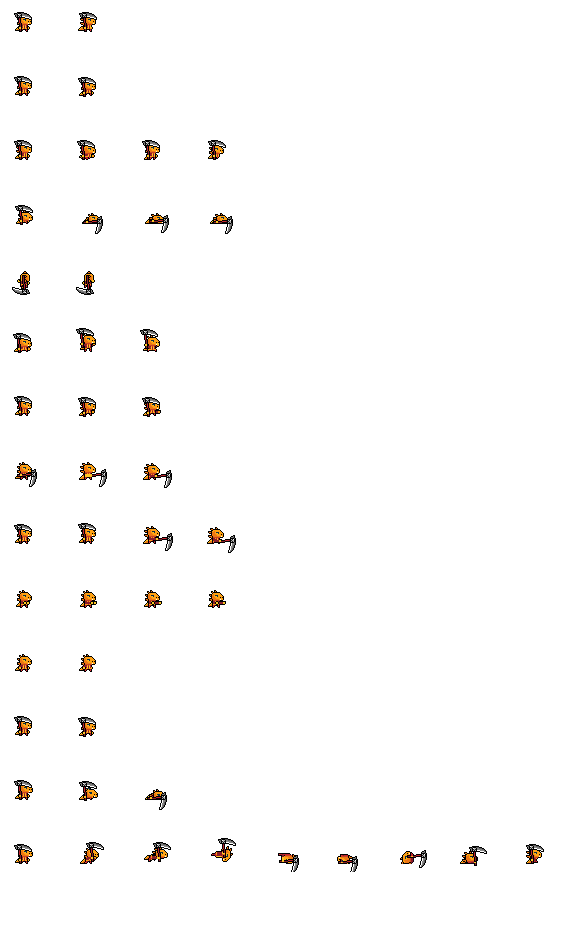
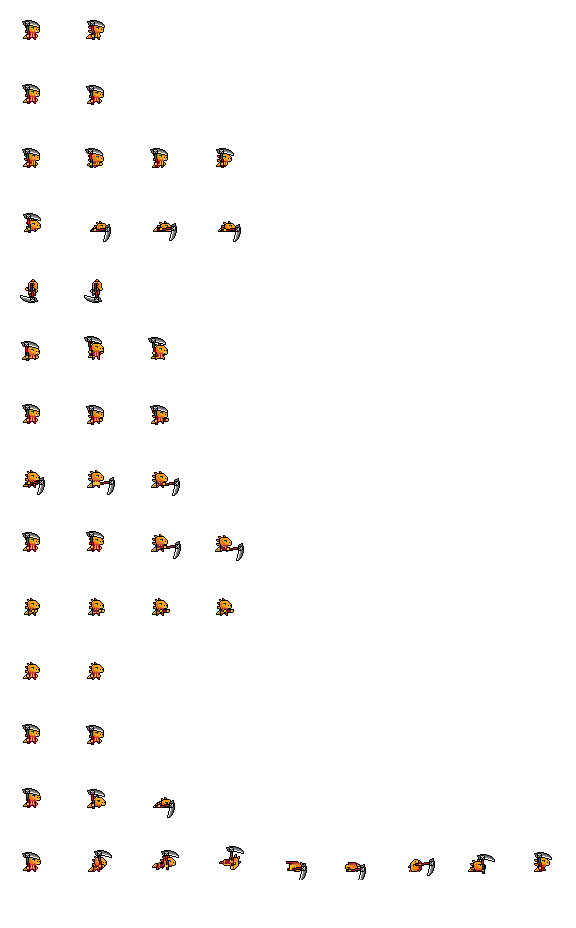
[doing]

diff --git a/lib/spritesheet/spritesheet.dart b/lib/spritesheet/spritesheet.dart
@@ -13,8 +13,8 @@ class SpriteSource {
   Future<void> load() async {
     playerSpriteSheet = SpriteSheet(
       image: await Flame.images.load('dragon.png'),
-      srcSize: Vector2(48.0, 48.0),
-      spacing: 16.0
+      srcSize: Vector2(64.0, 64.0),
+      spacing: 0.0
     );
     enemySpriteSheet = SpriteSheet(
       image: await Flame.images.load('swordsman.png'),
@@ -22,7 +22,7 @@ class SpriteSource {
     );
   }
 
-  SpriteAnimationGroupComponent getAnimation() {
+  SpriteAnimationGroupComponent getAnimation({required SpriteType onStart}) {
     SpriteAnimation idle =
         playerSpriteSheet.createAnimation(row: 0, stepTime: 0.15, to: 2);
     SpriteAnimation ready =
@@ -77,7 +77,7 @@ class SpriteSource {
         SpriteType.climb: playerSpriteSheet.createAnimation(row: 4, stepTime: 0.3, to: 2),
         SpriteType.jump: playerSpriteSheet.createAnimation(row: 5, stepTime: 0.2, to: 3, loop: false),
         SpriteType.push: playerSpriteSheet.createAnimation(row: 6, stepTime: 0.2, to: 3, loop: false),
-        SpriteType.jab: playerSpriteSheet.createAnimation(row: 7, stepTime: 0.2, to: 3, loop: false),
+        SpriteType.jab: playerSpriteSheet.createAnimation(row: 7, stepTime: 0.2, to: 3, loop: true),
         SpriteType.slash: playerSpriteSheet.createAnimation(row: 8, stepTime: 0.15, to: 4, loop: false),
         SpriteType.shot: playerSpriteSheet.createAnimation(row: 9, stepTime: 0.15, to: 4, loop: false),
         SpriteType.fire: playerSpriteSheet.createAnimation(row: 10, stepTime: 0.3, to: 2, loop: false),
@@ -85,7 +85,7 @@ class SpriteSource {
         SpriteType.death: playerSpriteSheet.createAnimation(row: 12, stepTime: 0.2, to: 3, loop: false),
         SpriteType.roll: playerSpriteSheet.createAnimation(row: 13, stepTime: 0.067, to: 9, loop: false),
       },
-      current: SpriteType.death,
+      current: onStart,
     );
 
     animationGroup.animationTickers?[SpriteType.jump]?.onComplete = (){

diff --git a/lib/worlds/battle_event_world.dart b/lib/worlds/battle_event_world.dart
@@ -34,7 +34,7 @@ class BattleEventWorld extends World
 
     SpriteSource source = SpriteSource();
     await source.load();
-    playerComponent = source.getAnimation();
+    playerComponent = source.getAnimation(onStart: SpriteType.slash);
     super.onLoad();
   }
 
@@ -52,7 +52,6 @@ class BattleEventWorld extends World
           (enemyState != null)) {
         log.fine("addCharacters");
 
-        playerComponent.current = SpriteType.slash;
 
         add(playerComponent);
 
